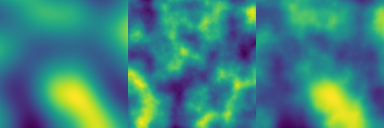
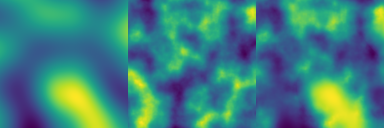
Add chop and blend 'negate' operators

diff --git a/include/highmap/op.hpp b/include/highmap/op.hpp
@@ -97,10 +97,24 @@ inline float bilinear_interp(float f00,
  * @image html ex_blend0.png
  * @image html ex_blend1.png
  * @image html ex_blend2.png
+ * @image html ex_blend3.png
  *
- * @see {@link blend_exclusion}, {@link blend_overlay}, {@link blend_soft}
+ * @see {@link blend_exclusion}, {@link blend_negate}, {@link blend_overlay},
+ * {@link blend_soft}
  */
 Array blend_exclusion(const Array &array1, const Array &array2);
+
+/**
+ * @brief Return the 'negate' blending of two arrays.
+ *
+ * @param array1 1st array.
+ * @param array2 2nd array.
+ * @return Array Reference to the resulting object.
+ *
+ * @see {@link blend_exclusion}, {@link blend_negate}, {@link blend_overlay},
+ * {@link blend_soft}
+ */
+Array blend_negate(const Array &array1, const Array &array2);
 
 /**
  * @brief Return the 'overlay' blending of two arrays.
@@ -113,7 +127,8 @@ Array blend_exclusion(const Array &array1, const Array &array2);
  * @param array2 2nd array.
  * @return Array Reference to the resulting object.
  *
- * @see {@link blend_exclusion}, {@link blend_overlay}, {@link blend_soft}
+ * @see {@link blend_exclusion}, {@link blend_negate}, {@link blend_overlay},
+ * {@link blend_soft}
  */
 Array blend_overlay(const Array &array1, const Array &array2);
 
@@ -130,9 +145,18 @@ Array blend_overlay(const Array &array1, const Array &array2);
  * @param array2 2nd array.
  * @return Array Reference to the resulting object.
  *
- * @see {@link blend_exclusion}, {@link blend_overlay}, {@link blend_soft}
+ * @see {@link blend_exclusion}, {@link blend_negate}, {@link blend_overlay},
+ * {@link blend_soft}
  */
 Array blend_soft(const Array &array1, const Array &array2);
+
+/**
+ * @brief Set to zero any value lower than `vmin`.
+ *
+ * @param array Input array.
+ * @param vmin Lower bound.
+ */
+void chop(Array &array, float vmin);
 
 /**
  * @brief Clamp array elements to a target range.

diff --git a/examples/ex_blend/ex_blend.cpp b/examples/ex_blend/ex_blend.cpp
@@ -15,6 +15,7 @@ int main(void)
   hmap::remap(z2);
 
   auto z_exclusion = hmap::blend_exclusion(z1, z2);
+  auto z_negate = hmap::blend_negate(z1, z2);
   auto z_overlay = hmap::blend_overlay(z1, z2);
   auto z_soft = hmap::blend_soft(z1, z2);
 
@@ -23,10 +24,14 @@ int main(void)
                           hmap::cmap::viridis);
 
   hmap::export_banner_png("ex_blend1.png",
-                          {z1, z2, z_overlay},
+                          {z1, z2, z_negate},
                           hmap::cmap::viridis);
 
   hmap::export_banner_png("ex_blend2.png",
+                          {z1, z2, z_overlay},
+                          hmap::cmap::viridis);
+
+  hmap::export_banner_png("ex_blend3.png",
                           {z1, z2, z_soft},
                           hmap::cmap::viridis);
 }

diff --git a/src/op/blending.cpp b/src/op/blending.cpp
@@ -15,6 +15,21 @@ Array blend_exclusion(const Array &array1, const Array &array2)
   return array_out;
 }
 
+Array blend_negate(const Array &array1, const Array &array2)
+{
+  Array array_out = Array(array1.shape);
+
+  auto lambda = [](float a, float b) { return a < b ? a : 2.f * b - a; };
+
+  std::transform(array1.vector.begin(),
+                 array1.vector.end(),
+                 array2.vector.begin(),
+                 array_out.vector.begin(),
+                 lambda);
+
+  return array_out;
+}
+
 Array blend_overlay(const Array &array1, const Array &array2)
 {
   Array array_out = Array(array1.shape);

diff --git a/src/op/range.cpp b/src/op/range.cpp
@@ -11,6 +11,16 @@ void almost_unit_identity(Array &array)
   array = (2.f - array) * array * array;
 }
 
+void chop(Array &array, float vmin)
+{
+  auto lambda = [&vmin](float x) { return x > vmin ? x : 0.f; };
+
+  std::transform(array.vector.begin(),
+                 array.vector.end(),
+                 array.vector.begin(),
+                 lambda);
+}
+
 void clamp(Array &array, float vmin, float vmax)
 {
   auto lambda = [&vmin, &vmax](float x) { return std::clamp(x, vmin, vmax); };
